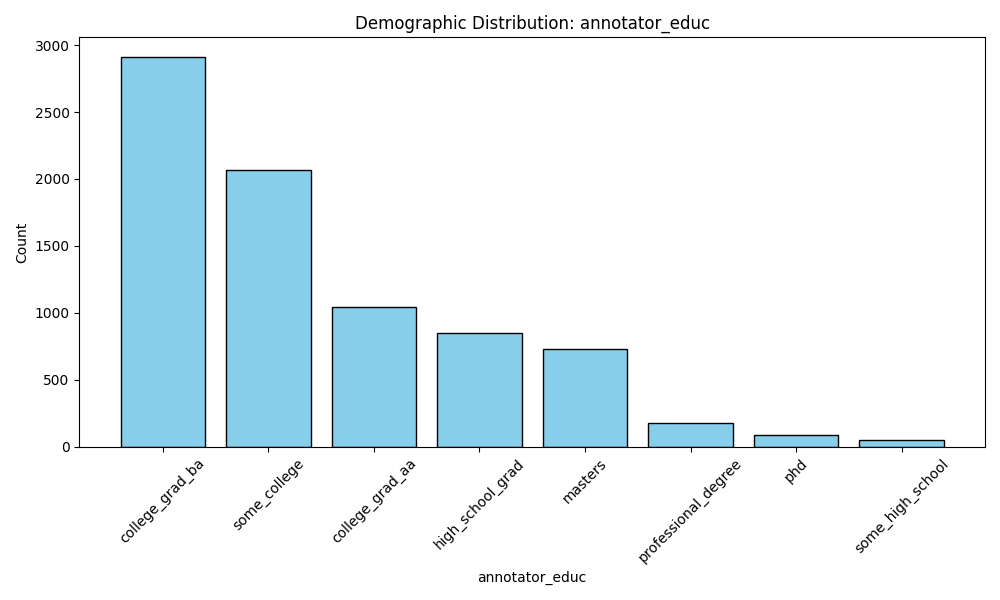
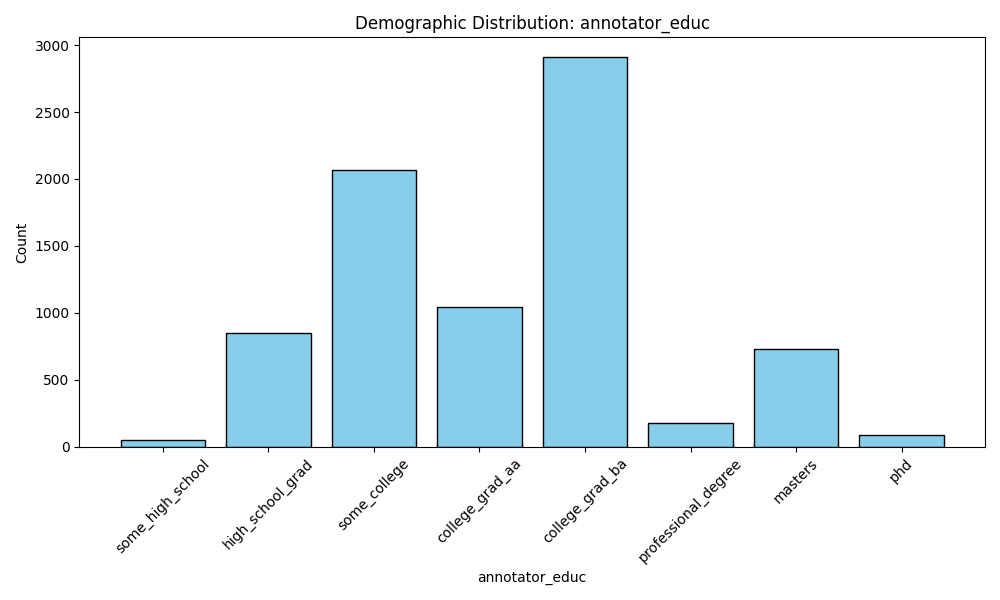
Arranged bar plot variables

diff --git a/analysis.py b/analysis.py
@@ -15,6 +15,11 @@ num_annotators = df['annotator_id'].nunique()
 # Number of annotations
 num_annotations = len(df)
 
+# Define the order for each demographic variable
+educ_order = ['some_high_school', 'high_school_grad', 'some_college', 'college_grad_aa', 'college_grad_ba', 'professional_degree', 'masters', 'phd']
+income_order = ['<10k', '10k-50k', '50k-100k', '100k-200k', '>200k']
+ideology_order = ['extremely_liberal', 'liberal', 'slightly_liberal', 'neutral', 'slightly_conservative', 'conservative', 'extremely_conservative', 'no_opinion']
+
 # Histogram of annotations per annotator
 annotations_per_annotator = df['annotator_id'].value_counts()
 plt.figure(figsize=(10, 6))
@@ -59,10 +64,24 @@ with open('analysis_results.txt', 'w') as f:
             f.write(f"  {category}: {count}\n")
         f.write("\n")
 
-# Plot demographic features
+# Plot demographic features with the correct order for the specified categories
 for column, stats in demographic_stats.items():
     plt.figure(figsize=(10, 6))
-    plt.bar(stats.keys(), stats.values(), color='skyblue', edgecolor='black')
+    
+    # Sort the bars based on the specific order for each demographic category
+    if column == 'annotator_educ':
+        ordered_stats = {key: stats.get(key, 0) for key in educ_order}
+        plt.bar(ordered_stats.keys(), ordered_stats.values(), color='skyblue', edgecolor='black')
+    elif column == 'annotator_income':
+        ordered_stats = {key: stats.get(key, 0) for key in income_order}
+        plt.bar(ordered_stats.keys(), ordered_stats.values(), color='skyblue', edgecolor='black')
+    elif column == 'annotator_ideology':
+        ordered_stats = {key: stats.get(key, 0) for key in ideology_order}
+        plt.bar(ordered_stats.keys(), ordered_stats.values(), color='skyblue', edgecolor='black')
+    else:
+        # Default order for other demographic variables
+        plt.bar(stats.keys(), stats.values(), color='skyblue', edgecolor='black')
+    
     plt.title(f'Demographic Distribution: {column}')
     plt.xlabel(column)
     plt.ylabel('Count')
